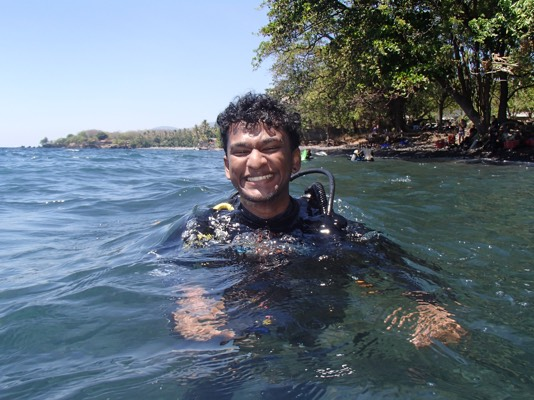
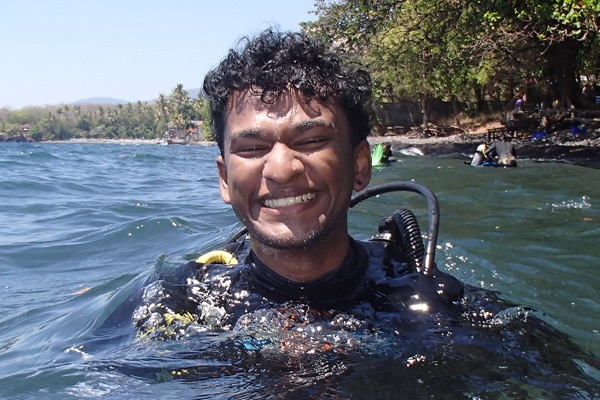
Simplify widget architecture and add real photos
- Replace PostItSvg React component with plain SVG file (postit-me.svg)
- Remove unused idPrefix prop from HalftonePhoto and PhotoFrame
- Update dive selfie as hero photo and compress to 108KB
- Add 35 photography gallery images to public/snaps/
- Replace placeholders with 3 real photos in Snaps widget polaroids
- Clean up unused mouse-tracker and scroll-velocity utilities
- Simplify SnapsWidget to use real image sources

diff --git a/src/components/widgets/HalftonePhoto.tsx b/src/components/widgets/HalftonePhoto.tsx
@@ -1,6 +1,5 @@
-import { motion, useMotionValue, useSpring } from "motion/react";
+import { useSpring } from "motion/react";
 import { useEffect, useRef } from "react";
-import { useSpringConfig } from "@/lib/spring-config";
 import PostItNote from "./PostItNote";
 
 // ── GLSL (WebGL 1, single texture sample per fragment) ──────────────
@@ -167,26 +166,14 @@ const SPRING = { stiffness: 150, damping: 20, mass: 1 };
 interface Props {
 	src: string;
 	alt?: string;
-	idPrefix?: string;
 }
 
-export default function HalftonePhoto({
-	src,
-	alt = "Photo",
-	idPrefix = "frame",
-}: Props) {
+export default function HalftonePhoto({ src, alt = "Photo" }: Props) {
 	const canvasRef = useRef<HTMLCanvasElement>(null);
 	const glCtx = useRef<{
 		gl: WebGLRenderingContext;
 		u: Record<string, WebGLUniformLocation | null>;
 	} | null>(null);
-
-	// 3D tilt (reuses existing spring config from PhotoFrame)
-	const frameConfig = useSpringConfig("photoFrameTilt");
-	const rotateX = useMotionValue(0);
-	const rotateY = useMotionValue(0);
-	const springX = useSpring(rotateX, frameConfig);
-	const springY = useSpring(rotateY, frameConfig);
 
 	// Shader hover springs
 	const dotSize = useSpring(RESTING.dotSize, SPRING);
@@ -238,7 +225,8 @@ export default function HalftonePhoto({
 		const program = link(gl);
 		if (!program) return;
 
-		gl["useProgram"](program);
+		// biome-ignore lint/correctness/useHookAtTopLevel: WebGL API, not a React hook
+		gl.useProgram(program);
 		quad(gl, program);
 		gl.viewport(0, 0, canvas.width, canvas.height);
 
@@ -312,14 +300,6 @@ export default function HalftonePhoto({
 
 	// ── Pointer handlers ───────────────────────────────────────────────
 
-	function handlePointerMove(e: React.PointerEvent<HTMLDivElement>) {
-		const rect = e.currentTarget.getBoundingClientRect();
-		const cx = rect.left + rect.width / 2;
-		const cy = rect.top + rect.height / 2;
-		rotateY.set(((e.clientX - cx) / (rect.width / 2)) * 4);
-		rotateX.set(((e.clientY - cy) / (rect.height / 2)) * -4);
-	}
-
 	function handlePointerEnter() {
 		dotSize.set(HOVERED.dotSize);
 		softness.set(HOVERED.softness);
@@ -327,22 +307,14 @@ export default function HalftonePhoto({
 	}
 
 	function handlePointerLeave() {
-		rotateX.set(0);
-		rotateY.set(0);
 		dotSize.set(RESTING.dotSize);
 		softness.set(RESTING.softness);
 		gridNoise.set(RESTING.gridNoise);
 	}
 
 	return (
-		<motion.div
+		<div
 			className="w-[300px] h-[200px] shrink-0 relative"
-			style={{
-				rotateX: springX,
-				rotateY: springY,
-				transformPerspective: 800,
-			}}
-			onPointerMove={handlePointerMove}
 			onPointerEnter={handlePointerEnter}
 			onPointerLeave={handlePointerLeave}
 		>
@@ -352,7 +324,7 @@ export default function HalftonePhoto({
 				role="img"
 				className="block w-full h-full rounded-[16px] bg-halftone-base shadow-[color(display-p3_0.608_0.657_0.681)_0px_2px_32px_4px]"
 			/>
-			<PostItNote idPrefix={idPrefix} />
-		</motion.div>
+			<PostItNote />
+		</div>
 	);
 }

diff --git a/src/components/widgets/SnapsWidget.tsx b/src/components/widgets/SnapsWidget.tsx
@@ -1,7 +1,12 @@
-import { motion, useMotionValue, useSpring, useTransform } from "motion/react";
+import { motion, useMotionValue, useSpring } from "motion/react";
 import { useEffect, useState } from "react";
-import { scrollVelocity } from "@/lib/scroll-velocity";
 import { useSpringConfig } from "@/lib/spring-config";
+
+const POLAROID_THUMBS = [
+	"/snaps/DSCF4135-Enhanced-NR-2.webp",
+	"/snaps/DSCF4283.webp",
+	"/snaps/DSCF4449.webp",
+];
 
 const POLAROIDS = [
 	{ rotate: 23.83, tx: 257.6, ty: -34.2 },
@@ -26,6 +31,7 @@ function InstantPhoto({
 	isHovered,
 	index,
 	fanConfig,
+	src,
 }: {
 	baseRotate: number;
 	baseTx: number;
@@ -36,10 +42,8 @@ function InstantPhoto({
 	isHovered: boolean;
 	index: number;
 	fanConfig: { stiffness: number; damping: number; mass: number };
+	src: string;
 }) {
-	const scrollShift = useMotionValue(0);
-	const springShift = useSpring(scrollShift, fanConfig);
-
 	const targetRotate = useMotionValue(baseRotate);
 	const targetTx = useMotionValue(baseTx);
 	const targetTy = useMotionValue(baseTy);
@@ -51,12 +55,6 @@ function InstantPhoto({
 	});
 	const springTx = useSpring(targetTx, fanConfig);
 	const springTy = useSpring(targetTy, fanConfig);
-
-	// Combine spring position with scroll shuffle
-	const finalTx = useTransform(
-		[springTx, springShift],
-		([tx, shift]: number[]) => tx + shift,
-	);
 
 	useEffect(() => {
 		if (isHovered) {
@@ -81,33 +79,21 @@ function InstantPhoto({
 		targetTy,
 	]);
 
-	// Scroll velocity → shuffle shift
-	useEffect(() => {
-		let rafId: number;
-		function update() {
-			const sv = scrollVelocity.get();
-			scrollShift.set(sv * 0.3 * (index + 1));
-			rafId = requestAnimationFrame(update);
-		}
-		rafId = requestAnimationFrame(update);
-		return () => cancelAnimationFrame(rafId);
-	}, [scrollShift, index]);
-
 	return (
 		<motion.div
 			className="absolute w-[96px] h-[120px] bg-white origin-[0%_0%] overflow-hidden"
 			style={{
 				rotate: springRotate,
-				x: finalTx,
+				x: springTx,
 				y: springTy,
 				boxShadow:
 					"0px 4px 18px 2px rgba(93, 93, 93, 0.25), 0px 0px 4px rgba(0, 0, 0, 0.18)",
 			}}
 		>
 			{/* Inner photo area */}
-			<div className="m-[5px] w-[86px] h-[86px] bg-gray-200 rounded-[2px] overflow-hidden">
+			<div className="m-[5px] w-[86px] h-[86px] bg-gray-200 overflow-hidden">
 				<img
-					src={`https://picsum.photos/seed/snap${index}/86/86`}
+					src={src}
 					alt={`Snap ${index + 1}`}
 					className="w-full h-full object-cover"
 				/>
@@ -148,6 +134,7 @@ export default function SnapsWidget() {
 					isHovered={isHovered}
 					index={i}
 					fanConfig={fanConfig}
+					src={POLAROID_THUMBS[i]}
 				/>
 			))}
 		</div>

diff --git a/src/components/widgets/PostItNote.tsx b/src/components/widgets/PostItNote.tsx
@@ -1,65 +1,12 @@
-import { motion, useMotionValue, useSpring } from "motion/react";
-import { useEffect, useRef } from "react";
-import { getMouseState, initMouseTracker } from "@/lib/mouse-tracker";
-import { scrollVelocity } from "@/lib/scroll-velocity";
-import { useSpringConfig } from "@/lib/spring-config";
-import PostItSvg from "./PostItSvg";
-
-interface PostItNoteProps {
-	idPrefix?: string;
-}
-
-export default function PostItNote({ idPrefix = "postit" }: PostItNoteProps) {
-	const isHovered = useRef(false);
-	const tiltConfig = useSpringConfig("postItTilt");
-	const liftConfig = useSpringConfig("postItLift");
-
-	const tiltTarget = useMotionValue(0);
-	const liftTarget = useMotionValue(0);
-
-	const tilt = useSpring(tiltTarget, tiltConfig);
-	const lift = useSpring(liftTarget, liftConfig);
-
-	useEffect(() => {
-		initMouseTracker();
-
-		let rafId: number;
-
-		function update() {
-			const sv = scrollVelocity.get();
-			const mouse = getMouseState();
-
-			// Scroll velocity → rotateY sway + mouse vx → flutter
-			tiltTarget.set(sv * 0.5 + mouse.vx * 15);
-
-			// Hover → lift up, mouse speed → subtle lift
-			const speedLift = Math.min(mouse.speed * 5, 10);
-			const hoverLift = isHovered.current ? -8 : 0;
-			liftTarget.set(hoverLift - speedLift);
-
-			rafId = requestAnimationFrame(update);
-		}
-
-		rafId = requestAnimationFrame(update);
-		return () => cancelAnimationFrame(rafId);
-	}, [tiltTarget, liftTarget]);
-
+export default function PostItNote() {
 	return (
-		<motion.div
-			className="absolute left-[216px] top-[127px] cursor-pointer"
-			style={{
-				rotateY: tilt,
-				y: lift,
-				transformPerspective: 400,
-			}}
-			onPointerEnter={() => {
-				isHovered.current = true;
-			}}
-			onPointerLeave={() => {
-				isHovered.current = false;
-			}}
-		>
-			<PostItSvg idPrefix={idPrefix} />
-		</motion.div>
+		<div className="absolute left-[216px] top-[127px]">
+			<img
+				src="/postit-me.svg"
+				alt="Post-it note saying Me!"
+				width={97}
+				height={105}
+			/>
+		</div>
 	);
 }

diff --git a/src/components/WidgetStrip.tsx b/src/components/WidgetStrip.tsx
@@ -1,15 +1,7 @@
-import { ReactLenis, useLenis } from "lenis/react";
+import { ReactLenis } from "lenis/react";
 import type { ReactNode } from "react";
-import { scrollVelocity } from "@/lib/scroll-velocity";
 import HalftonePhoto from "./widgets/HalftonePhoto";
 import SnapsWidget from "./widgets/SnapsWidget";
-
-function VelocityBridge() {
-	useLenis((lenis) => {
-		scrollVelocity.set(lenis.velocity);
-	});
-	return null;
-}
 
 interface WidgetStripProps {
 	children?: ReactNode;
@@ -24,12 +16,10 @@ export default function WidgetStrip({ children }: WidgetStripProps) {
 			}}
 			className="overflow-x-auto overflow-y-visible scrollbar-hide py-16"
 		>
-			<VelocityBridge />
 			<div className="flex gap-widget-gap items-center w-max px-6">
 				<HalftonePhoto
 					src="/my-photo-sm.jpg"
 					alt="Halftone portrait of Shreyas"
-					idPrefix="postit1"
 				/>
 				<a href="/snaps" className="no-underline">
 					<SnapsWidget />

diff --git a/src/components/widgets/PhotoFrame.tsx b/src/components/widgets/PhotoFrame.tsx
@@ -5,14 +5,9 @@ import PostItNote from "./PostItNote";
 interface PhotoFrameProps {
 	src: string;
 	alt?: string;
-	idPrefix?: string;
 }
 
-export default function PhotoFrame({
-	src,
-	alt = "Photo",
-	idPrefix = "frame",
-}: PhotoFrameProps) {
+export default function PhotoFrame({ src, alt = "Photo" }: PhotoFrameProps) {
 	const frameConfig = useSpringConfig("photoFrameTilt");
 	const rotateX = useMotionValue(0);
 	const rotateY = useMotionValue(0);
@@ -52,7 +47,7 @@ export default function PhotoFrame({
 					className="w-full h-full object-cover contrast-[1.2] grayscale-[0.15]"
 				/>
 			</div>
-			<PostItNote idPrefix={idPrefix} />
+			<PostItNote />
 		</motion.div>
 	);
 }

diff --git a/src/lib/spring-config.ts b/src/lib/spring-config.ts
@@ -7,15 +7,11 @@ export interface SpringConfig {
 }
 
 export interface SpringConfigMap {
-	postItTilt: SpringConfig;
-	postItLift: SpringConfig;
 	photoFrameTilt: SpringConfig;
 	polaroidFan: SpringConfig;
 }
 
 const defaults: SpringConfigMap = {
-	postItTilt: { stiffness: 100, damping: 10, mass: 1 },
-	postItLift: { stiffness: 150, damping: 15, mass: 1 },
 	photoFrameTilt: { stiffness: 120, damping: 18, mass: 1 },
 	polaroidFan: { stiffness: 180, damping: 12, mass: 1 },
 };

diff --git a/src/components/DebugOverlay.tsx b/src/components/DebugOverlay.tsx
@@ -9,8 +9,6 @@ import {
 } from "@/lib/spring-config";
 
 const LABELS: Record<keyof SpringConfigMap, string> = {
-	postItTilt: "Post-it Tilt",
-	postItLift: "Post-it Lift",
 	photoFrameTilt: "Photo Frame Tilt",
 	polaroidFan: "Polaroid Fan",
 };
